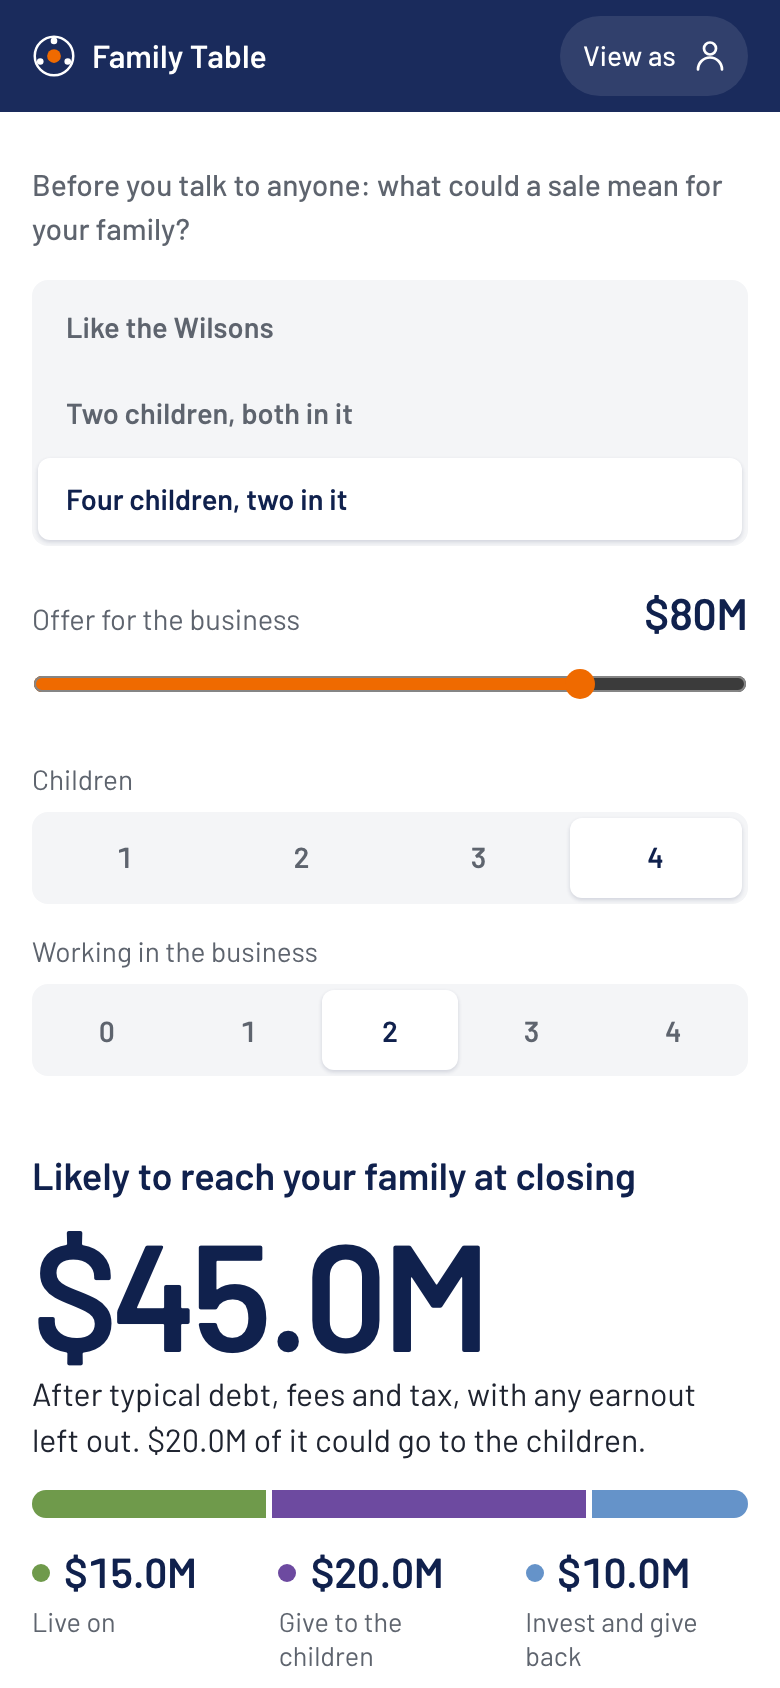
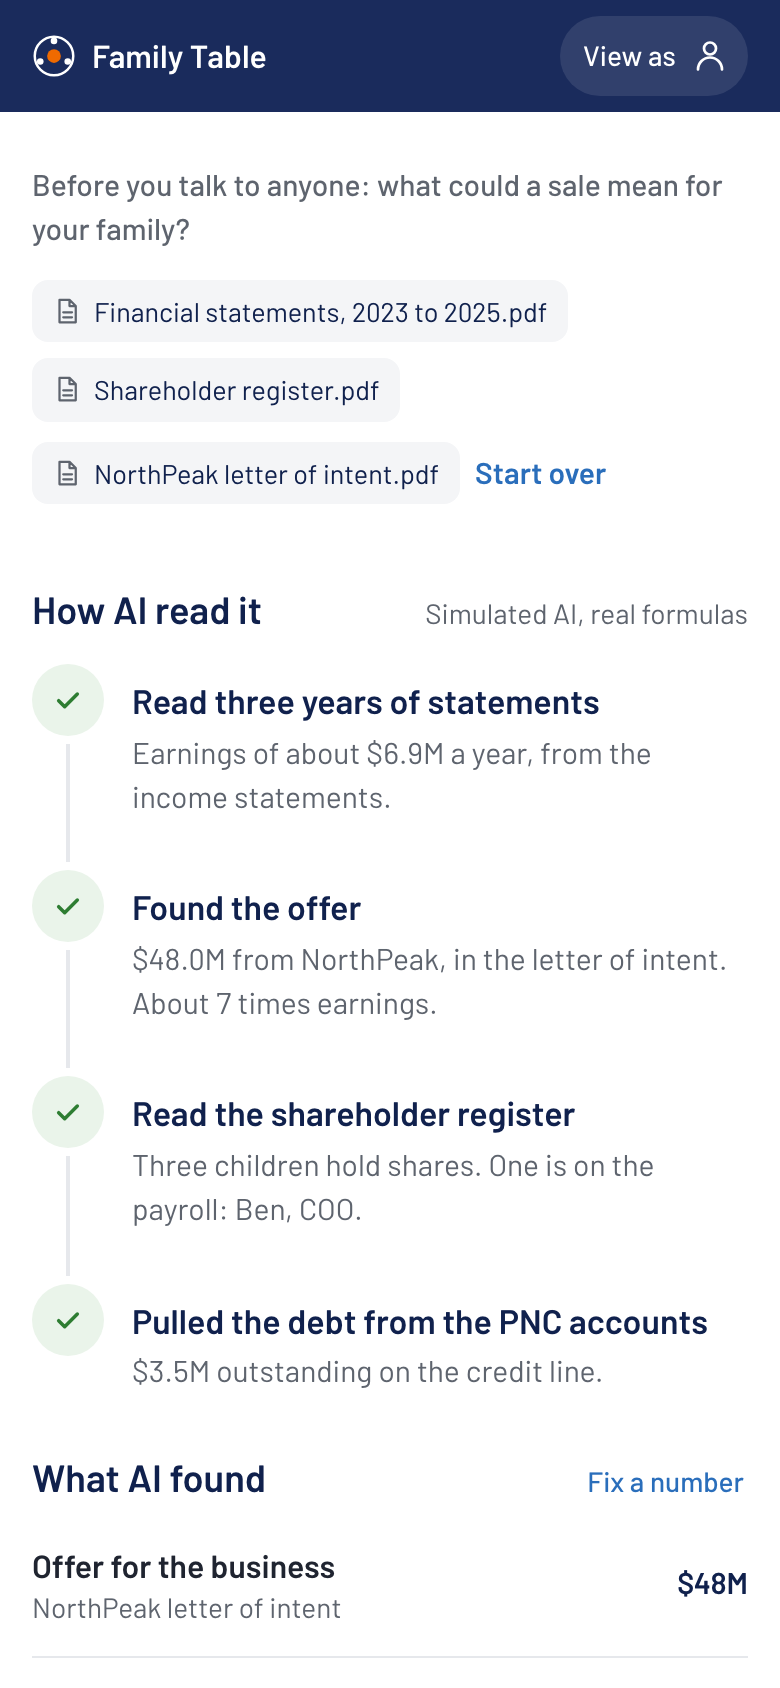
Preview: documents in, AI reads, the person only confirms
The four manual controls (preset, offer slider, children, in the
business) are replaced by one document step. A real file picker plus a
one-tap "Use the Wilsons' documents"; files never leave the device and
the screen says so. A visible AI trace reads the statements, finds the
offer and its multiple, reads the shareholder register and pulls the
debt from the PNC accounts, labelled "Simulated AI, real formulas".
"What AI found" lists the four facts with a "Fix a number" link that
opens the old controls as corrections. The numbers below are unchanged
and now fed by the extracted facts. Before any documents, the screen
shows an empty state instead of unfounded numbers.

Tour step 2 taps the sample documents. The trace step helper moves to
module scope so two screens share it. Slide crop state updated.

diff --git a/prototype/app.js b/prototype/app.js
@@ -15,7 +15,7 @@
   const KEY = "family-table-v8";
   const fresh = () => ({ shared: [], optOut: false, approved: false, started: false, routed: {}, pick: "balanced", picked: {}, votes: {},
     answers: {}, intro: {}, invited: false, chapter: [], agreed: {}, msgs: [], replies: {}, drafts: {}, calls: {}, confirmed: {},
-    shareReply: {}, tour: -1, pv: { preset: "wilson", value: 48, kids: 3, inBiz: 1 }, previewed: false, goals: ["fair", "live", "chapter"],
+    shareReply: {}, tour: -1, pv: { value: 48, kids: 3, inBiz: 1 }, pvDocs: null, pvRead: false, pvFix: false, previewed: false, goals: ["fair", "live", "chapter"],
     fairMeans: null, spend: 300, foundation: 2, keepName: false, tree: {}, pathSent: {}, presented: false });
   let state = fresh();
   try {
@@ -27,6 +27,8 @@
   } catch (e) { /* storage blocked: keep in-memory state */ }
   const save = () => { try { localStorage.setItem(KEY, JSON.stringify(state)); } catch (e) {} };
   const set = patch => { Object.assign(state, patch); save(); render(); };
+  // Preview: the documents are "read" (simulated) and the facts fill the screen; the person can fix any number.
+  const readDocs = (names, own) => { Object.assign(state, { pvDocs: { names, own }, pvRead: true, previewed: true, pvFix: false, pv: Object.assign({}, S.preview.found) }); save(); render(true); };
   const ui = { callOpen: false, slide: 0 };
   let sheet = { kind: null };
 
@@ -98,6 +100,8 @@
   };
   const ic = (k, s = 20, w = 1.8) => `<svg width="${s}" height="${s}" viewBox="0 0 24 24" fill="none" stroke="currentColor" stroke-width="${w}" stroke-linecap="round" stroke-linejoin="round" aria-hidden="true"><path d="${I[k]}"/></svg>`;
   const chev = `<span class="chev">${ic("chev", 18)}</span>`;
+  // One step of an AI trace. playTrace() runs them in order on arrival.
+  const step = (k, title, body, cls = "", icon = "check") => `<li class="tr-step ${cls}" data-k="${k}"><span class="tr-ic"><span class="tr-n">${k + 1}</span>${ic(icon, 16, 2.6)}<span class="spin"></span></span><div class="tr-body"><b>${title}</b>${body}</div></li>`;
   const mark = `<svg viewBox="0 0 32 32" width="22" height="22" aria-hidden="true"><circle cx="16" cy="16" r="14" fill="none" stroke="#fff" stroke-width="1.8"/><circle cx="16" cy="16" r="5" fill="#EF6A00"/><circle cx="16" cy="5" r="2.4" fill="#fff"/><circle cx="26" cy="20" r="2.4" fill="#fff"/><circle cx="6" cy="20" r="2.4" fill="#fff"/></svg>`;
 
   // Three steps. The deck's Signal and Join fold into Align; Continue folds into Activate.
@@ -230,7 +234,7 @@
     { side: "Advisor", stage: "Align", route: "advisor", title: "Alex sees the sale coming",
       hint: "PNC's own account data puts Wilson Transport at 81 out of 100, a year before closing. Tap Call Margaret.", target: '[data-act="start"]', done: () => state.started },
     { side: "Family", stage: "Align", route: "preview", title: "Margaret previews what's possible",
-      hint: "Before she commits to anything, she sees what a sale could mean for her family. Try another family: tap Four children, two in it.", target: '[data-act="pv-preset"][data-id="mixed"]', done: () => state.previewed },
+      hint: "Before she talks to anyone, she adds what she has and AI reads it. Tap Use the Wilsons' documents.", target: '[data-act="pv-sample"]', done: () => state.pvRead },
     { side: "Family", stage: "Align", route: "me/margaret/setup", title: "Margaret sets her goals",
       hint: "PNC already filled in the facts. She sharpens what fair means to her, then invites the family.", target: '[data-act="invite"]', done: () => state.invited },
     { side: "Family", stage: "Align", route: "me/claire/checkin", title: "Claire says what she's never said",
@@ -461,7 +465,6 @@
     if (n < MIN_GROUP) return `<div class="page"><section class="hero"><div class="label">Wilson family summary</div><div class="value">Not enough answers</div><div class="caption">The family summary appears when at least ${MIN_GROUP} members contribute.</div></section></div>`;
     const ths = summaryThemes().map(th => ({ th, g: gap(th) })).sort((a, b) => b.g - a.g), top = ths[0], low = ths[ths.length - 1];
     const will = S.docs.find(d => d.id === "will"), routed = state.routed.will;
-    const step = (k, title, body, cls = "", icon = "check") => `<li class="tr-step ${cls}" data-k="${k}"><span class="tr-ic"><span class="tr-n">${k + 1}</span>${ic(icon, 16, 2.6)}<span class="spin"></span></span><div class="tr-body"><b>${title}</b>${body}</div></li>`;
     const steps = [
       step(0, `Read ${n} private check-ins`, `<p>Turned each person's words into a stance on ${S.themes.length} themes. The words stay in each person's own vault.</p>
         <div class="chips static">${S.themes.map(t => `<span class="chip">${t.short}</span>`).join("")}</div>`),
@@ -596,17 +599,28 @@
           kid(`In the business, ×${pv.inBiz}`, inCash, R, max) + kid(`Not in it, ×${out}`, target, 0, max));
     return `<div class="page"><div class="cols"><div class="col-main">
       <section class="hero"><div class="label">Before you talk to anyone: what could a sale mean for your family?</div>
-        <div class="pv-presets">${seg("pv-preset", X.presets.map(p => p.id), pv.preset, id => X.presets.find(p => p.id === id).label)}</div>
-        <div class="pv-in"><label><span>Offer for the business</span><b data-pvval>$${pv.value}M</b></label>
+        ${!state.pvRead ? `<div class="pv-drop">
+          <label class="pv-drop-in" for="pv-files">${ic("doc", 26)}<b>Add what you have</b><span>Financial statements, the shareholder register, the buyer's letter if there is one. Nothing leaves your device in this prototype.</span></label>
+          <input type="file" id="pv-files" multiple data-act="pv-files" class="visually-hidden">
+          <button class="btn block" data-act="pv-sample">Use the Wilsons' documents</button></div>`
+        : `<div class="pv-files">${state.pvDocs.names.map(d => `<span class="file-chip">${ic("doc", 15)}${esc(d)}</span>`).join("")}<button class="linkbtn" data-act="pv-reset">Start over</button></div>
+          ${state.pvDocs.own ? `<p class="micro faint" style="margin-top:8px">Your files stayed on this device. In the prototype, AI reads the Wilsons' sample set instead.</p>` : ""}`}</section>
+      ${!state.pvRead ? `<section class="section"><div class="pv-empty">Add your documents, or use the Wilsons', and the numbers appear here: what reaches the family at closing, and how it could split.</div></section>` : `
+      <section class="section trace-wrap"><div class="section-head"><h2>How AI read it</h2><span class="aside">Simulated AI, real formulas</span></div>
+        <ol class="trace">${X.read.map(([t, b], k) => step(k, t, `<p>${b}</p>`)).join("")}</ol></section>
+      <section class="section"><div class="section-head"><h2>What AI found</h2><button class="aside" data-act="pv-fix">${state.pvFix ? "Done" : "Fix a number"}</button></div>
+        <div class="rows">${[["Offer for the business", "$" + pv.value + "M", "NorthPeak letter of intent"], ["Company debt", money(S.deal.debt), "Wilson Transport's PNC accounts"], ["Children", String(pv.kids), "Shareholder register"], ["Working in the business", String(pv.inBiz), "Payroll"]].map(([k, v, src]) => `<div class="row"><span class="tx"><b>${k}</b><span>${src}</span></span><span class="rt">${v}</span></div>`).join("")}</div>
+        ${state.pvFix ? `<div class="pv-fixbox"><div class="pv-in"><label><span>Offer for the business</span><b data-pvval>$${pv.value}M</b></label>
           <input type="range" min="10" max="100" step="2" value="${pv.value}" data-act="pv-value" aria-label="Offer for the business, in millions"></div>
-        <div class="pv-row"><div><span class="lab">Children</span>${seg("pv-kids", [1, 2, 3, 4], pv.kids)}</div>
-          <div><span class="lab">Working in the business</span>${seg("pv-inbiz", [...Array(pv.kids + 1).keys()], pv.inBiz)}</div></div></section>
-      <section class="section"><div class="section-head"><h2>Likely to reach your family at closing</h2></div>
+          <div class="pv-row"><div><span class="lab">Children</span>${seg("pv-kids", [1, 2, 3, 4], pv.kids)}</div>
+          <div><span class="lab">Working in the business</span>${seg("pv-inbiz", [...Array(pv.kids + 1).keys()], pv.inBiz)}</div></div></div>` : ""}
+        <p class="micro faint" style="margin-top:10px">Check these before you rely on them. A PNC tax specialist confirms real figures.</p></section>`}
+      ${state.pvRead ? `<section class="section"><div class="section-head"><h2>Likely to reach your family at closing</h2></div>
         <div class="value huge">${m1(netV)}</div>
         <p class="caption">After typical debt, fees and tax, with any earnout left out. ${m1(pot)} of it could go to the children.</p>
         <div class="alloc" style="margin-top:14px" aria-hidden="true">${S.deal.buckets.map(b => `<i style="flex:${b.value};background:${b.color}"></i>`).join("")}</div>
         <div class="alloc-legend">${S.deal.buckets.map(b => `<div><span class="dot" style="background:${b.color}"></span><b>${m1(netV * b.value / net())}</b><span>${b.label}</span></div>`).join("")}</div></section>
-      <section class="section"><div class="section-head"><h2>${mixed ? "Two ways to split it" : "How it splits"}</h2><span class="aside">Navy cash, orange equity</span></div><div class="pv-cards">${cards}</div></section>
+      <section class="section"><div class="section-head"><h2>${mixed ? "Two ways to split it" : "How it splits"}</h2><span class="aside">Navy cash, orange equity</span></div><div class="pv-cards">${cards}</div></section>` : ""}
       </div><aside class="col-side">
         <section class="panel"><div class="section-head"><h2>What changes with Family Table</h2></div>
           <div class="cmp"><div class="cmp-h"><span></span><span>Without a plan</span><span>With Family Table</span></div>${X.compare.map(([k, a, b]) => `<div class="cmp-r"><b>${k}</b><span>${a}</span><span>${b}</span></div>`).join("")}</div></section>
@@ -857,7 +871,9 @@
     else if (a === "call-open") { ui.callOpen = true; render(); }
     else if (a === "call" && v) { ui.callOpen = false; set({ calls: Object.assign({}, state.calls, { [v]: S.slots[+id] }) }); }
     else if (a === "confirm-call") set({ confirmed: Object.assign({}, state.confirmed, { [id]: true }) });
-    else if (a === "pv-preset") { const pr = S.preview.presets.find(x => x.id === id); set({ previewed: true, pv: { preset: id, value: pr.value, kids: pr.kids, inBiz: pr.inBiz } }); }
+    else if (a === "pv-sample") readDocs(S.preview.docs, false);
+    else if (a === "pv-fix") set({ pvFix: !state.pvFix });
+    else if (a === "pv-reset") set({ pvRead: false, pvDocs: null, pvFix: false });
     else if (a === "pv-kids") { const k = +id; set({ previewed: true, pv: Object.assign({}, state.pv, { preset: null, kids: k, inBiz: Math.min(state.pv.inBiz, k) }) }); }
     else if (a === "pv-inbiz") set({ previewed: true, pv: Object.assign({}, state.pv, { preset: null, inBiz: +id }) });
     else if (a === "goal") { const g = state.goals; set({ goals: g.includes(id) ? g.filter(x => x !== id) : g.length < 3 ? [...g, id] : g }); }
@@ -895,7 +911,8 @@
   // The preview recalculates when the slider is released, so dragging stays smooth.
   document.addEventListener("change", e => {
     const el = e.target;
-    if (el.dataset.act === "pv-value") { const y = scrollY; state.pv = Object.assign({}, state.pv, { preset: null, value: +el.value }); state.previewed = true; save(); render(); scrollTo(0, y); }
+    if (el.dataset.act === "pv-value") { const y = scrollY; state.pv = Object.assign({}, state.pv, { value: +el.value }); state.previewed = true; save(); render(); scrollTo(0, y); }
+    if (el.dataset.act === "pv-files") { const names = [...el.files].map(f => f.name).slice(0, 6); readDocs(names.length ? names : S.preview.docs, names.length > 0); }
   });
   document.addEventListener("keydown", e => { if (e.key === "Escape" && sheet.kind) { sheet.kind = null; renderSheet(); } });
   window.addEventListener("hashchange", () => {

diff --git a/prototype/styles.css b/prototype/styles.css
@@ -578,8 +578,6 @@ body.touring main { padding-bottom: 230px; }
 .pv-in input[type=range] { width: 100%; height: 32px; margin: 4px 0 0; accent-color: var(--orange); }
 
 /* ---------- preview: before engaging PNC ---------- */
-.pv-presets .seg { grid-auto-flow: row; grid-auto-columns: auto; margin-top: 14px; }
-.pv-presets .seg button { text-align: left; padding: 10px 14px; }
 .pv-in { margin-top: 18px; }
 .pv-in label { display: flex; justify-content: space-between; align-items: baseline; font-size: 14.5px; color: var(--sub); }
 .pv-in label b { font-size: 22px; color: var(--navy); font-weight: 600; }
@@ -748,3 +746,19 @@ ul.pz-list { list-style: none; padding: 0; }
 @media (min-width: 1024px) {
   .onb-hero { grid-template-columns: 1fr; gap: 44px; align-items: start; padding: 56px 0 64px; }
 }
+
+/* ---------- preview: documents first, AI reads, the person fixes a number if needed ---------- */
+.pv-drop { margin-top: 16px; display: grid; gap: 12px; }
+.pv-drop-in { display: grid; justify-items: center; text-align: center; gap: 6px; padding: 22px 18px; border: 1.5px dashed var(--line-2); border-radius: var(--r-lg); color: var(--navy); cursor: pointer; }
+.pv-drop-in:hover { background: var(--surface); }
+.pv-drop-in b { font-size: 17px; }
+.pv-drop-in span { font-size: 14px; color: var(--sub); max-width: 40ch; }
+.visually-hidden { position: absolute; width: 1px; height: 1px; overflow: hidden; clip: rect(0 0 0 0); }
+.visually-hidden:focus-visible + .btn, #pv-files:focus-visible ~ * { outline: 2px solid var(--orange); outline-offset: 2px; }
+.pv-files { display: flex; flex-wrap: wrap; gap: 8px; margin-top: 14px; align-items: center; }
+.file-chip { display: inline-flex; align-items: center; gap: 6px; padding: 6px 10px; border-radius: 8px; background: var(--surface); font-size: 13.5px; color: var(--navy); }
+.file-chip svg { color: var(--sub); flex: none; }
+.pv-fixbox { margin-top: 12px; padding: 14px; border-radius: var(--r); background: var(--surface); }
+.pv-fixbox .pv-in { margin-top: 0; }
+.pv-empty { padding: 18px; border-radius: var(--r); background: var(--surface); font-size: 15px; color: var(--sub); }
+.pv-files .linkbtn { min-height: 40px; padding: 0 6px; }

diff --git a/prototype/data.js b/prototype/data.js
@@ -125,11 +125,15 @@ window.SEED = {
   // child who stays = 1.5/48 of the offer. Illustrative only.
   preview: {
     netRatio: 27 / 48, giftShare: 12 / 27, equityRatio: 1.5 / 48,
-    presets: [
-      { id: "wilson", label: "Like the Wilsons", value: 48, kids: 3, inBiz: 1 },
-      { id: "both", label: "Two children, both in it", value: 30, kids: 2, inBiz: 2 },
-      { id: "mixed", label: "Four children, two in it", value: 80, kids: 4, inBiz: 2 },
+    // Documents an owner can add before talking to anyone. The read is simulated; the figures match the Wilson deal.
+    docs: ["Financial statements, 2023 to 2025.pdf", "Shareholder register.pdf", "NorthPeak letter of intent.pdf"],
+    read: [
+      ["Read three years of statements", "Earnings of about $6.9M a year, from the income statements."],
+      ["Found the offer", "$48.0M from NorthPeak, in the letter of intent. About 7 times earnings."],
+      ["Read the shareholder register", "Three children hold shares. One is on the payroll: Ben, COO."],
+      ["Pulled the debt from the PNC accounts", "$3.5M outstanding on the credit line."],
     ],
+    found: { value: 48, kids: 3, inBiz: 1 },
     compare: [
       ["Who is heard", "The founder, usually alone", "Every family member, privately"],
       ["When the family talks", "After the deal is signed", "Before the letter of intent"],

diff --git a/video/src/slide_shots_v2.js b/video/src/slide_shots_v2.js
@@ -6,7 +6,7 @@ const BIN = path.join(process.env.HOME, "Library/Caches/ms-playwright/chromium_h
 const BASE = process.argv[2] || "http://localhost:4311/prototype/";
 const OUT = path.join(__dirname, "../../prototype/shots");
 const PHONE = [
-  ["preview", "slide_preview_m", { pv: { preset: "mixed", value: 80, kids: 4, inBiz: 2 } }, null],
+  ["preview", "slide_preview_m", { pvRead: true, pvDocs: { names: ["Financial statements, 2023 to 2025.pdf", "Shareholder register.pdf", "NorthPeak letter of intent.pdf"], own: false }, pv: { value: 48, kids: 3, inBiz: 1 } }, null],
   ["me/margaret/setup", "slide_setup_m", { fairMeans: "balanced" }, ".refine"],
   ["me/sam/decide", "slide_decide_m", { votes: { sam: "balanced" }, tree: { sam: { count: "balanced", pay: "trust" } } }, null],
 ];
